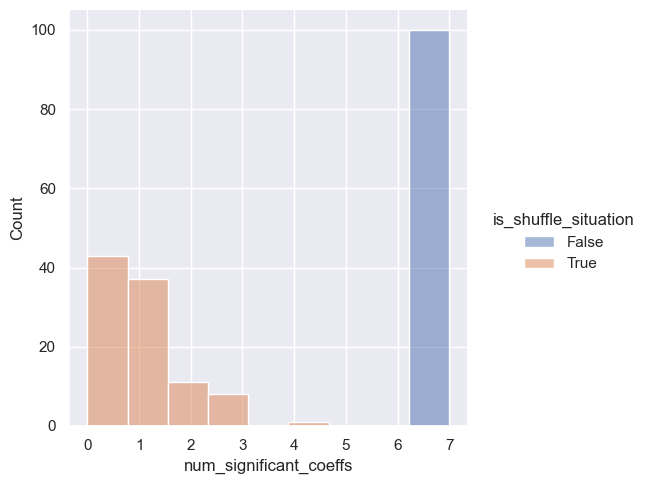
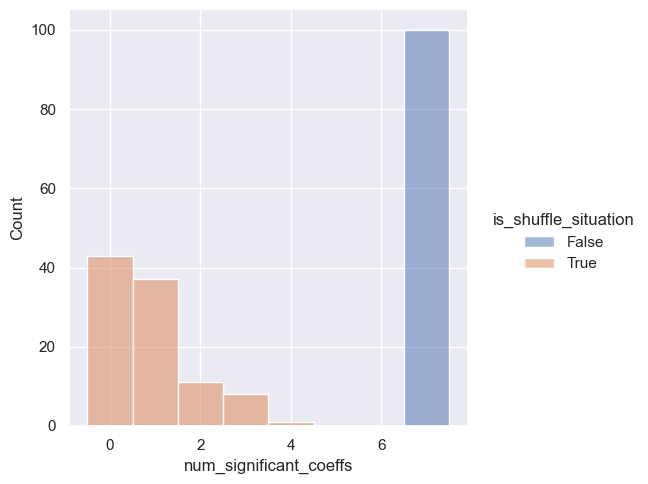
update experiments/rb_monkey_new_fit

diff --git a/experiments/rb_monkey_new_fit/README.md b/experiments/rb_monkey_new_fit/README.md
@@ -88,7 +88,8 @@ python analysis_v1.py \
 -v \
 "import experiments.rb_monkey_new_fit.utils as eu" \
 "df=eu.proc_df(df, ['num_significant_coeffs'])" \
-"sns.displot(data=df, x='num_significant_coeffs', hue='is_shuffle_situation', kind='hist')"
+"bin_edges=np.arange(start=df['num_significant_coeffs'].min() - 0.5, stop=df['num_significant_coeffs'].max() + 1.5, step=1)" \
+"sns.displot(data=df, x='num_significant_coeffs', hue='is_shuffle_situation', kind='hist', bins=bin_edges)"
 ```
 
 ![](base-num-significant-coeffs-.png)
